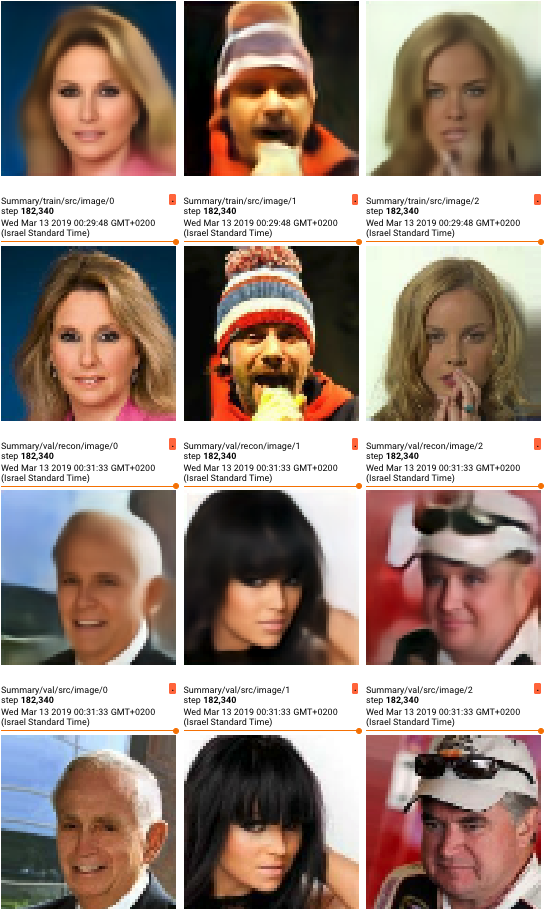
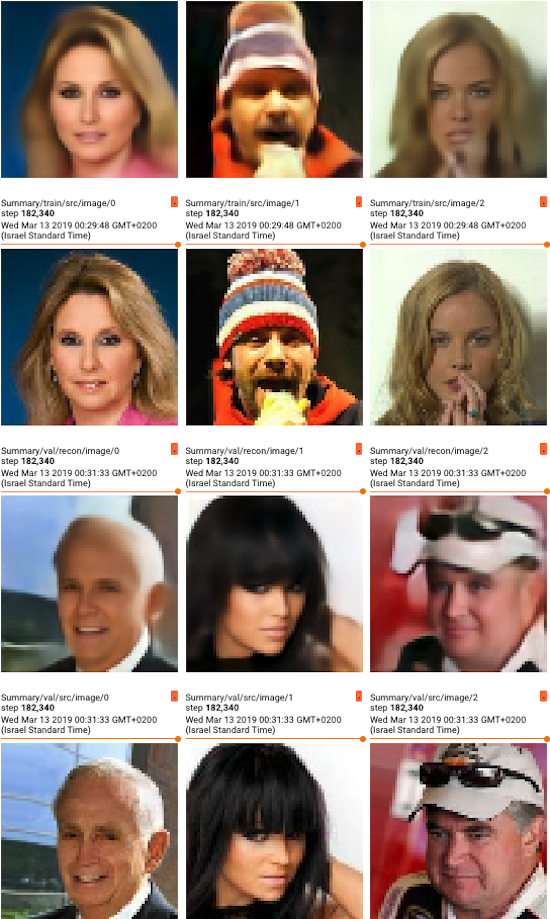
README: add rand

diff --git a/README.md b/README.md
@@ -11,9 +11,13 @@ The loss is comprised out of two components:
 
 ## Reconstruction Results
 * **512 params:**
-
+	
 	![512](style_vae/doc/512.png)
 
 * **100 params:**
 
 	![100](style_vae/doc/100.png)
+
+## Random Sample Results
+
+   ![random](style_vae/doc/rand.png =200x)
